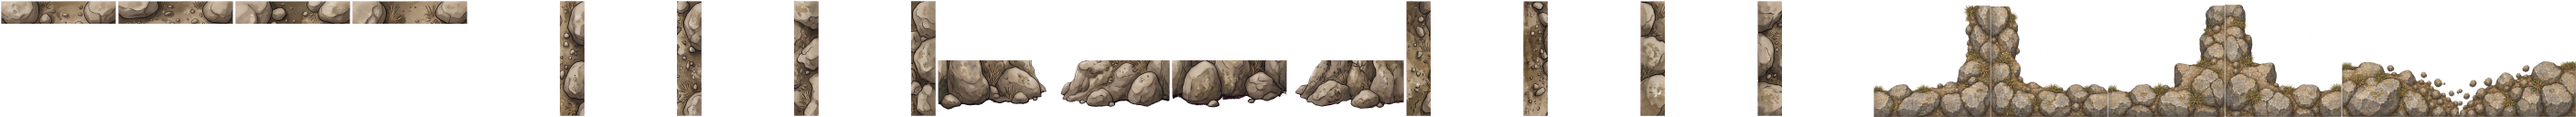
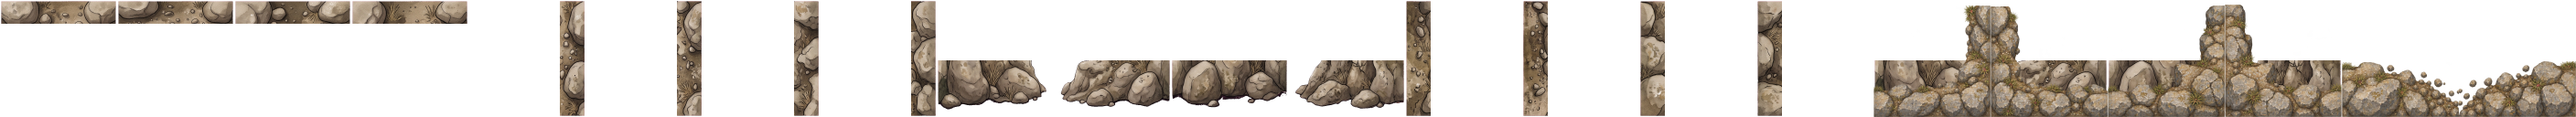
Bake the band under each corner, and plan for edges that are not tiles
Fixes the arm-depth step this branch shipped with. A painted corner's two arms
are about equal thickness; the game's are not -- a south face is 62px deep and an
east face 28 wide -- so a corner scaled to fit the cell landed a 34px arm against
a 62px band and the wall stepped down at every turn. Scaling to match needs a
1.8x vertical stretch that stands every boulder up taller than the ones beside
it, so the band goes underneath in the sheet instead and the corner supplies only
the turn. Every corner now measures exactly 62 at the columns where it meets a
straight run.

That is the distinction between the two kinds of piece: a corner turns the wall
so it needs the wall, a cap ends the wall so it replaces it. Caps are not baked
and still taper 60 -> 29 into rubble.

Baked rather than drawn as two sprites: stacking them was measured at +69%
blended pixels on the cliff layer, where baking costs nothing beyond the corner
quad already drawn. No engine change, no frame renumbering, 988 tests unmoved.

`docs/continuous-edges-plan.md` is new, for the larger complaint underneath --
that a rim's outline is a straight line on the cell boundary, so it reads as a
tile whatever is painted inside it. Three causes, only the third about art: the
outline never varies though `assets/edges.png` already holds torn masks that
would vary it; a rim stops inside its own cell, despite a comment in
build-rims.js claiming the south face overhangs the tile below, which it has
[…]

Changed region(s): [[0.7188, 0.5, 0.9062, 0.7812]]

diff --git a/tools/build-rims.js b/tools/build-rims.js
@@ -570,12 +570,50 @@ function buildSheet({ id, from, to, corners }, apply) {
       // Against the bottom, the same edge `place` puts a south band against: a corner and the run
       // it continues have to stand on the same line or the wall visibly steps at the seam.
       const frame = place(band, CELL, tall, 's');
+
+      // **A corner is baked over a south band; a cap is not.** The painted corners' two arms are
+      // about equal thickness, but the game's are not -- a south face is 62px deep and an east face
+      // 28 wide -- so a corner scaled to fit the cell lands a 34px horizontal arm against a 62px
+      // band and the wall visibly steps down at every turn. No scaling fixes that: matching the
+      // depth needs a 1.8x vertical stretch that stands every boulder up taller than the ones
+      // beside it.
+      //
+      // So the band goes underneath and the corner supplies the turn on top. That is the whole
+      // distinction between the two kinds of piece: **a corner turns the wall, so it needs the
+      // wall; a cap ends the wall, so it replaces it.** Baking rather than stacking two sprites in
+      // the scene is worth the arithmetic here -- measured, the stacked version put the cliff layer
+      // at +69% blended pixels where this costs nothing over the corner quad already drawn.
+      if (!name.startsWith('cap-')) {
+        // One south variant per piece, so the four corners look as different from each other as
+        // the four straight variants do.
+        const under = (ROWS.indexOf('s') * VARIANTS + index % VARIANTS) * CELL;
+        for (let y = 0; y < CELL; y += 1) {
+          for (let x = 0; x < CELL; x += 1) {
+            const f = (y * CELL + x) * 4;
+            if (frame[f + 3] === 255) continue; // corner already covers this pixel outright
+            const b = (y * sheetW + under + x) * 4;
+            const ba = sheet[b + 3];
+            if (ba === 0) continue;
+            // Band under corner: standard source-over with the corner as the source.
+            const ca = frame[f + 3];
+            const outA = ca + (ba * (255 - ca)) / 255;
+            if (outA === 0) continue;
+            for (let k = 0; k < 3; k += 1) {
+              frame[f + k] = Math.round(
+                (frame[f + k] * ca + sheet[b + k] * ba * (1 - ca / 255)) / outA
+              );
+            }
+            frame[f + 3] = Math.round(outA);
+          }
+        }
+      }
+
       const ox = sheetW + index * CELL;
       for (let y = 0; y < CELL; y += 1) {
         const fromRow = y * CELL * 4;
         frame.copy(wide, (y * wideW + ox) * 4, fromRow, fromRow + CELL * 4);
       }
-      report.push(`${name} ${tall}px`);
+      report.push(`${name} ${tall}px${name.startsWith('cap-') ? '' : '+band'}`);
     });
     frames += CORNERS.length;
   } else if (corners) {

diff --git a/docs/continuous-edges-plan.md b/docs/continuous-edges-plan.md
@@ -1,0 +1,111 @@
+# Continuous edges
+
+> *"cliff or tree edges shouldn't be considered as tiles — they need to nicely nudge into
+> surrounding tiles."*
+
+The complaint is about **silhouette**, not about rock. A rim in this game is drawn as a band against
+one cell boundary, so its outer outline is a straight line exactly 128 pixels long, in line with
+fifteen other straight lines. Whatever is painted inside that band, the shape says *tile*.
+
+This is the same complaint the shoreline programme answered for water and the blend layer answered
+for ground, and both are worth reading before starting here: `docs/shoreline-plan.md` and the torn
+masks in `assets/edges.png`. **A rim is a slot** — `planCliffs` and `planTreeline` are one function
+with two predicates and two sheets — so whatever is built here is built once and both get it.
+
+## What is actually wrong, measured
+
+Three separate causes, and only the third is about art.
+
+**1. The outer outline is a straight line on the cell boundary.** Nothing varies it. The ground blend
+already solved exactly this: `assets/edges.png` holds four edges × four variants of a torn mask that
+reaches a third of a cell and varies its depth per column between 10% and 100%. The cliff and
+treeline sheets do not use it.
+
+**2. The rim stops inside its own cell.** `DEPTH.s = 0.48`, so a south face occupies the bottom 62px
+of its own 128 and stops dead at the boundary. The comment in `tools/build-rims.js` claims south is
+deep "so the face overhangs the tile below it" — it does not, and has never. Nothing of any rim has
+ever been drawn outside the tile that owns it.
+
+**3. Nothing bridges the foot.** A wall meets flat grass across one pixel row. Real rock sheds a
+talus of loose stone into the ground below it, which is what makes a cliff read as standing *on*
+something rather than being pasted over it. `planCliffJoints` already scatters stone — but only at a
+run's *ends*, never along its base.
+
+### And two measurements that decide what is worth building
+
+**The median south-face run is one tile.** Across the four maps: 83 runs of one tile, 31 of two, 10
+of three, 8 of four, 3 of five or more, longest 23. A rim here is nearly always a short stair, not a
+long wall. So the pieces that make *joins* read well are worth far more than anything that makes a
+long straight run look better — which is why the corner work was the right thing to do first.
+
+**Speckle is not the cause, and smoothing is not the cure.** The obvious theory is that the high
+ground is noise. It is not: 4 lone high tiles out of 1,199 on the Aravali, 0 of 857 on the Narmada.
+A majority filter over the band grid was prototyped and moves the median run not at all — long runs
+went 4 → 8 on one map and 7 → 5 on another. The short runs come from the *contour* being a diagonal
+staircase, which is what a contour on a square grid is. **Do not spend a seed-breaking terrain change
+on this.**
+
+## The three mechanisms, cheapest first
+
+None of the first two needs new art.
+
+### A. A torn outer outline
+
+Mask the rim's outer edge with the same torn masks the ground blend uses, keyed by `tileHash` so it
+is deterministic and stable across a save. The rim's *inner* edge — the one against the cell it
+belongs to — stays straight, because that side is buried under the ground it is the edge of.
+
+Cost: one mask lookup at build time if the masks are composited into the sheet (34 frames rather
+than 22), or a baked texture per (frame, mask) pair at runtime the way `shoreTextureKey` works.
+**Prefer baking into the sheet.** The shoreline work measured the alternative and the lesson there
+was that the cheap-looking half was the expensive one.
+
+### B. Overhang, and a talus at the foot
+
+Two halves of one idea: the rim reaches *past* its cell, and debris from it lands on the neighbour.
+
+- **Overhang.** Give the outward-facing rim placement an `offset` so a fraction of it — start at 15%
+  and measure — falls on the tile beyond. Depth already works out: a face on row *y* draws at
+  `depthFor(y, undergrowth)` = 10y+1 and a player standing on row *y*+1 draws at 10y+15, so the
+  player walks in front of an overhanging face rather than behind it. Check that before trusting it.
+- **Talus.** Extend `planCliffJoints` from run-ends to run-bases: scree and small stones on the tile
+  *below* a south face, thinning with distance, from the stones the decor sheet already carries.
+  Same argument the joints already won on — the stone is both what hides the seam and what would
+  actually be lying there.
+
+### C. One rim module, so the treeline gets it too
+
+`planCliffs` and `planTreeline` are the same pass with different predicates. Whatever A and B become,
+they belong in one place that both call, with the reach and the talus prop as parameters. A forest
+edge wants a canopy spilling into the open tile and leaf litter at its foot; a cliff wants rock
+overhanging and scree. Same shape, different furniture.
+
+**This is the part to get right structurally**, because the rim slot has already proved it is a slot:
+the reference sheet that established the shape drew the identical structure in nine materials, one of
+them a wooden palisade.
+
+## What is deliberately not here
+
+**Double-height faces and stacked terraces.** Parked by the author as an idea rather than a
+requirement, and the terrain does not support it anyway: **1.4% of faces are a two-band drop and not
+one of them faces south**, because `band()` returns only 0, 1 or 2. Building terracing today would
+be art and code for something that draws on eleven tiles in the whole game, none of them the ones
+you would see it on.
+
+**A terrain change.** See the measurement above.
+
+## The one thing that does need art
+
+The corner pieces and the straight bands are **two different paintings**. Mean colour matches almost
+exactly — `[128, 111, 92]` against `[135, 117, 94]` — but the corners are a fine cobble mosaic where
+the bands are large smooth boulders, so adjacent tiles read as two rocks. No build-time transform
+fixes texture frequency; only repainting one side to match the other does.
+
+**When that round happens, commission the whole sheet at once** — sixteen edge frames and six corners
+in one painting — rather than matching a new corner to an old band. That resolves the mismatch by
+construction, which is the same argument that says a corner should be baked over the band it
+continues rather than scaled to match it.
+
+And state the numbers in the prompt, because the two things that went wrong twice were both
+unstated: **which quarter of each corner cell must be empty**, and **that the rock runs off the cell
+edge and is cut flat there**. `test/frames.test.ts` now checks the first automatically.

diff --git a/docs/props-and-rims-plan.md b/docs/props-and-rims-plan.md
@@ -118,10 +118,19 @@ are large smooth boulders, so adjacent tiles read as two rocks. No build-time tr
 texture frequency. Fixing it means repainting one side to match the other, which is its own art
 round and is not scheduled.
 
-**A corner's horizontal arm is 34px deep where a straight band is 62.** So a corner meeting a run on
-its open side steps down. The caps do *not* have this problem — they land at 60–61px — because the
-crop below fits them by width. Matching the corners too would need a 1.8× vertical stretch that
-would stand every boulder up taller than the ones beside it, which is worse than the step.
+**A corner's horizontal arm was 34px deep where a straight band is 62 — fixed by baking, not by
+scaling.** Matching the depth by scaling needs a 1.8× vertical stretch that stands every boulder up
+taller than the ones beside it, so instead the band goes *underneath* the corner in the sheet and the
+corner supplies only the turn. Every corner now measures exactly 62 at the columns where it meets a
+straight run. That is the distinction between the two kinds of piece: **a corner turns the wall, so
+it needs the wall; a cap ends the wall, so it replaces it** — caps are not baked, and still taper
+60 → 29 into rubble.
+
+Baked rather than stacked as two sprites in the scene: the stacked version was measured at **+69%
+blended pixels** on the cliff layer, where baking costs nothing beyond the corner quad already drawn.
+
+What a rim still gets wrong beyond this — that its outline is a straight line on the cell boundary at
+all — is a bigger programme than this plan, and is written up in `docs/continuous-edges-plan.md`.
 
 ### The two builder faults this found, which looked like art faults
 

diff --git a/CLAUDE.md b/CLAUDE.md
@@ -200,6 +200,7 @@ The art docs, in the order they are useful:
 | `docs/rendering.md` | why the frame costs what it costs, and the four levers when it costs more |
 | `docs/shoreline-plan.md` | the coast and riverbank emboss: what is planned, and what it must not touch |
 | `docs/props-and-rims-plan.md` | prop shadows, cliff joints, island flora and underside shading — and the art still wanted |
+| `docs/continuous-edges-plan.md` | why a rim still reads as a tile, and the three mechanisms that would stop it |
 | `docs/the-ground-that-gives.md` | gathering, resource nodes, and where the tuning numbers live |
 
 Run a single test file with `npx vitest run test/generator.test.ts`, or a single case with
